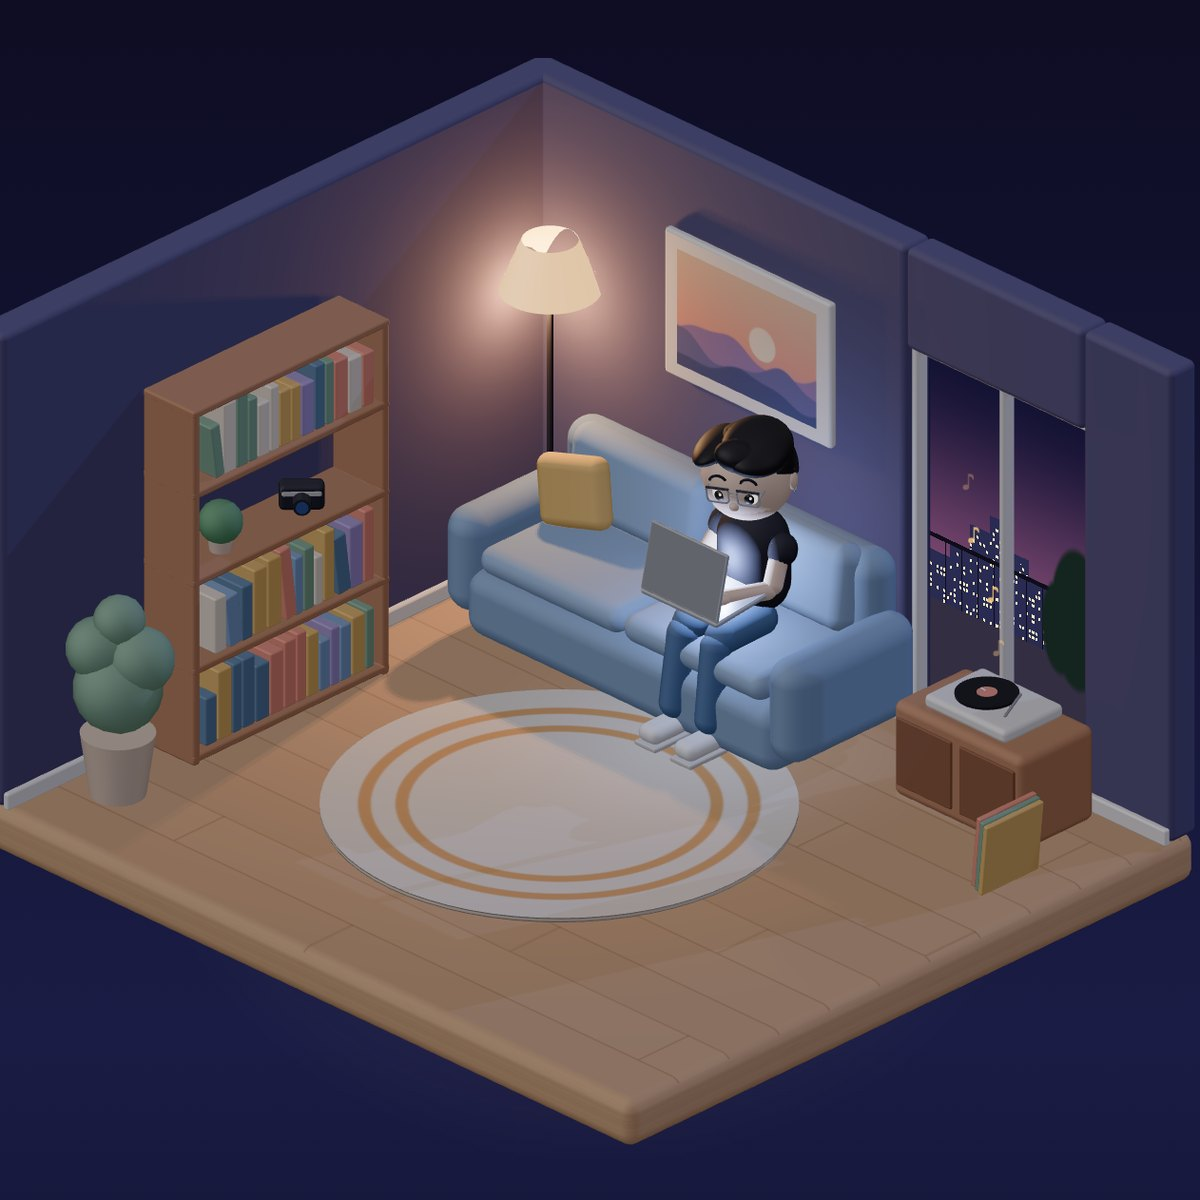
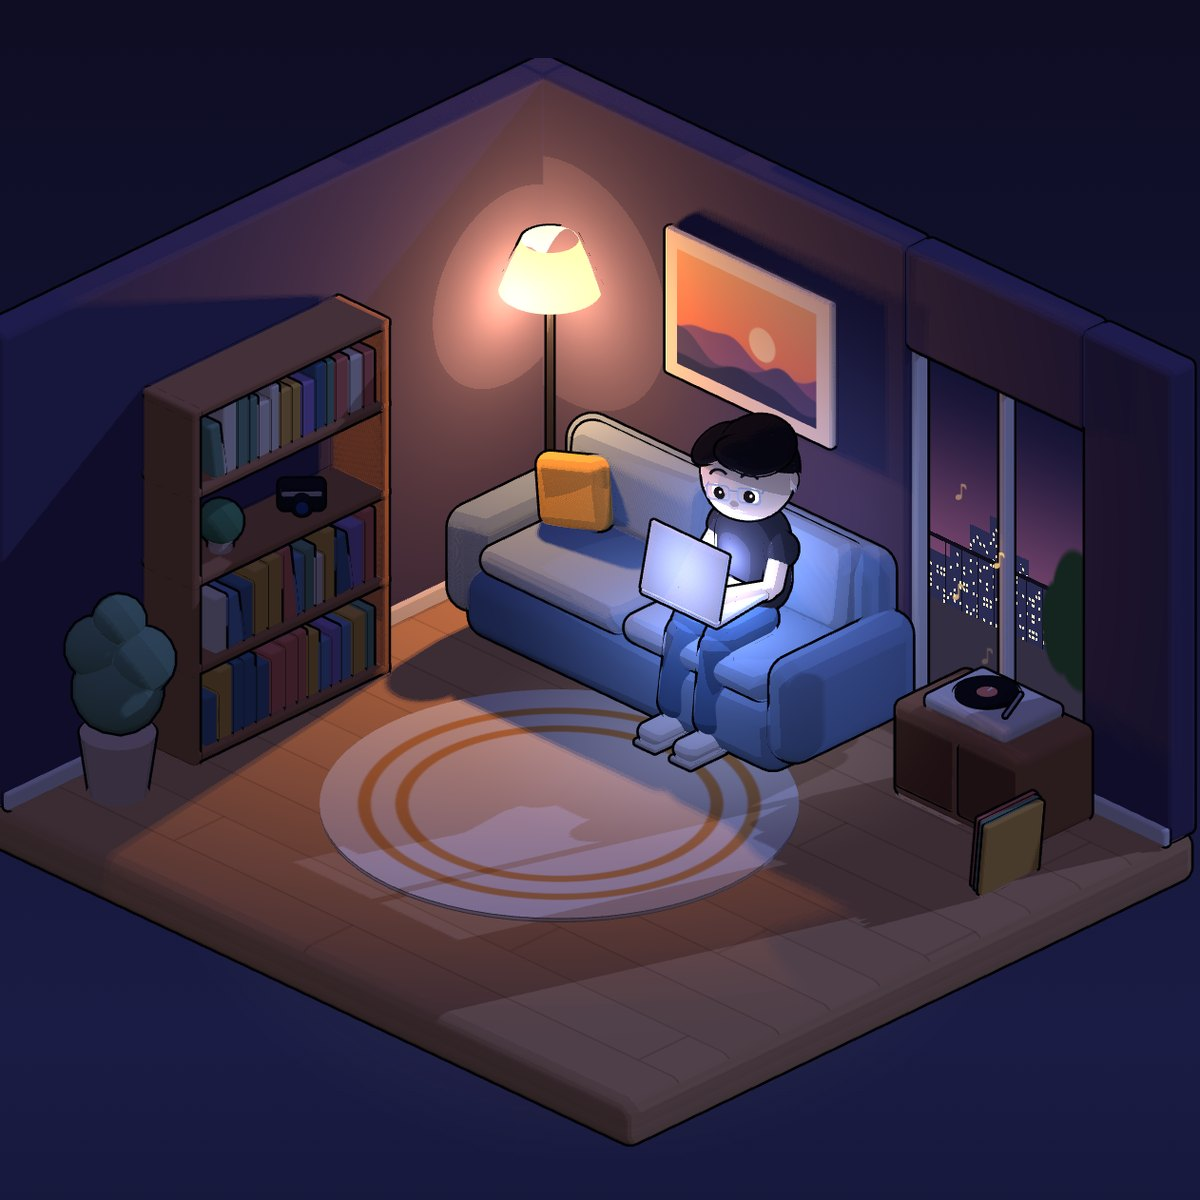
The room goes back to cel shading, crisper than the first pass
The clay render read soft. Three hard bands of light, hard shadows and a
thin plum ink line keep the new room, its sunlit floor and Ivan's
Memoji face; the glasses lose their top bar, which read as a frown.

Claude-Session: https://claude.ai/code/session_01FH67SwyQXea5kehW28VuDA

diff --git a/public/scene.js b/public/scene.js
@@ -1,9 +1,8 @@
-// Ivan's room in golden hour, a soft-clay diorama built from primitives: sun
+// Ivan's room in golden hour, a cel-shaded diorama built from primitives: sun
 // through the balcony door, a turntable going, a bookshelf with a camera, a
 // print above the sofa. Night swaps the sun for the lamp, the laptop and the city.
 import * as THREE from "three";
 import { RoundedBoxGeometry } from "three/addons/geometries/RoundedBoxGeometry.js";
-import { RoomEnvironment } from "three/addons/environments/RoomEnvironment.js";
 
 const canvas = document.getElementById("scene");
 const still = matchMedia("(prefers-reduced-motion: reduce)");
@@ -20,13 +19,10 @@ if (renderer) build(renderer);
 function build(renderer) {
   renderer.setPixelRatio(Math.min(devicePixelRatio || 1, 2));
   renderer.outputColorSpace = THREE.SRGBColorSpace;
-  renderer.toneMapping = THREE.AgXToneMapping;
   renderer.shadowMap.enabled = true;
-  renderer.shadowMap.type = THREE.PCFSoftShadowMap;
+  renderer.shadowMap.type = THREE.PCFShadowMap;
 
   const scene = new THREE.Scene();
-  const pmrem = new THREE.PMREMGenerator(renderer);
-  scene.environment = pmrem.fromScene(new RoomEnvironment(), 0.04).texture;
 
   // An isometric view: orthographic, so the room reads like a model on a desk.
   const camera = new THREE.OrthographicCamera(-1, 1, 1, -1, 0.1, 100);
@@ -37,7 +33,19 @@ function build(renderer) {
   const room = new THREE.Group();
   scene.add(room);
 
-  const clay = (color, roughness = 0.82) => new THREE.MeshStandardMaterial({ color, roughness, metalness: 0 });
+  // Cel shading: three crisp bands of light, and ink round every solid shape.
+  const bands = new THREE.DataTexture(new Uint8Array([90, 168, 255]), 3, 1, THREE.RedFormat);
+  bands.minFilter = bands.magFilter = THREE.NearestFilter;
+  bands.needsUpdate = true;
+  const toonMat = ({ roughness, metalness, ...rest } = {}) => new THREE.MeshToonMaterial({ gradientMap: bands, ...rest });
+  const clay = (color) => toonMat({ color });
+  const INK = 0.013;
+  const ink = new THREE.ShaderMaterial({
+    uniforms: { color: { value: new THREE.Color("#2a2236") } },
+    vertexShader: `void main() { gl_Position = projectionMatrix * modelViewMatrix * vec4(position + normal * ${INK.toFixed(4)}, 1.0); }`,
+    fragmentShader: `uniform vec3 color; void main() { gl_FragColor = vec4(color, 1.0); }`,
+    side: THREE.BackSide,
+  });
   const box = (w, h, d, r = 0.05) => new RoundedBoxGeometry(w, h, d, 4, Math.min(r, w / 2 - 0.001, h / 2 - 0.001, d / 2 - 0.001));
   const cyl = (rt, rb, h, s = 40) => new THREE.CylinderGeometry(rt, rb, h, s);
   function put(geometry, material, at, parent = room, { cast = true, receive = true } = {}) {
@@ -45,6 +53,7 @@ function build(renderer) {
     m.position.set(...at);
     m.castShadow = cast;
     m.receiveShadow = receive;
+    if (cast) m.add(new THREE.Mesh(geometry, ink));
     parent.add(m);
     return m;
   }
@@ -80,7 +89,7 @@ function build(renderer) {
 
   // Room: floor slab, side wall, and a back wall framed round the balcony door.
   const W = 4.8, D = 4.2, H = 2.8, T = 0.2;
-  const floorMat = new THREE.MeshStandardMaterial({ map: planks, roughness: 0.7 });
+  const floorMat = toonMat({ map: planks, roughness: 0.7 });
   put(box(W, 0.28, D, 0.08), floorMat, [0, -0.14, 0]);
   const wallMat = clay(C.wall, 0.95);
   const backZ = -D / 2 + T / 2, sideX = -W / 2 + T / 2;
@@ -146,7 +155,7 @@ function build(renderer) {
     t.colorSpace = THREE.SRGBColorSpace;
     return t;
   })();
-  put(cyl(1.25, 1.25, 0.025, 64), new THREE.MeshStandardMaterial({ map: rugTex, roughness: 1 }), [-0.15, 0.013, 0.05], room, { cast: false });
+  put(cyl(1.25, 1.25, 0.025, 64), toonMat({ map: rugTex, roughness: 1 }), [-0.15, 0.013, 0.05], room, { cast: false });
   const sofa = clay(C.sofa), cushion = clay(C.cushion);
   put(box(2.3, 0.4, 0.95, 0.12), sofa, [-0.6, 0.28, -1.3]);
   put(box(2.3, 0.62, 0.26, 0.13), sofa, [-0.6, 0.78, -1.68]);
@@ -196,7 +205,7 @@ function build(renderer) {
   laptop.position.set(0, 0.28, 0.33);
   laptop.rotation.set(0.1, Math.PI, 0);
   me.add(laptop);
-  const alu = new THREE.MeshStandardMaterial({ color: C.metal, roughness: 0.35, metalness: 0.6 });
+  const alu = toonMat({ color: C.metal, roughness: 0.35, metalness: 0.6 });
   put(box(0.56, 0.03, 0.38, 0.015), alu, [0, 0, 0], laptop);
   const lid = new THREE.Group();
   lid.position.set(0, 0.015, -0.18);
@@ -231,21 +240,20 @@ function build(renderer) {
   for (const s of [-1, 1]) put(new THREE.SphereGeometry(0.07, 16, 12), hair, [s * 0.215, 0.08, -0.06], head).scale.set(0.35, 0.85, 1.05);
   // Eyes with a light in them and thin arched brows; the Memoji's smile reads from the eyes.
   const white = new THREE.MeshBasicMaterial({ color: "#fdfcf9" });
-  const iris = new THREE.MeshStandardMaterial({ color: "#241c19", roughness: 0.25 });
+  const iris = toonMat({ color: "#241c19", roughness: 0.25 });
   const spark = new THREE.MeshBasicMaterial({ color: "#ffffff" });
   const browMat = clay("#231d20", 0.6);
   for (const s of [-1, 1]) {
     const x = s * 0.085;
-    put(new THREE.SphereGeometry(0.045, 20, 16), white, [x, 0.0, 0.2], head, { cast: false }).scale.set(0.95, 1.05, 0.5);
-    put(new THREE.SphereGeometry(0.03, 20, 16), iris, [x - s * 0.004, -0.004, 0.217], head, { cast: false }).scale.set(1, 1.08, 0.55);
+    put(new THREE.SphereGeometry(0.05, 20, 16), white, [x, 0.0, 0.2], head, { cast: false }).scale.set(0.95, 1.08, 0.5);
+    put(new THREE.SphereGeometry(0.034, 20, 16), iris, [x - s * 0.004, -0.002, 0.219], head, { cast: false }).scale.set(1, 1.08, 0.55);
     put(new THREE.SphereGeometry(0.009, 8, 6), spark, [x + 0.012, 0.012, 0.234], head, { cast: false });
-    const brow = put(new THREE.TorusGeometry(0.05, 0.008, 6, 16, Math.PI * 0.7), browMat, [x, 0.065, 0.215], head, { cast: false });
+    const brow = put(new THREE.TorusGeometry(0.05, 0.008, 6, 16, Math.PI * 0.7), browMat, [x, 0.082, 0.21], head, { cast: false });
     brow.rotation.z = Math.PI * 0.15 + (s > 0 ? 0 : 0.1);
   }
   put(new THREE.SphereGeometry(0.026, 12, 10), skin, [0, -0.055, 0.235], head, { cast: false });
-  // His glasses: thin rims under a darker top bar.
-  const rimMat = new THREE.MeshStandardMaterial({ color: "#c9ccd6", roughness: 0.3, metalness: 0.7 });
-  const barMat = clay("#3b3a45", 0.5);
+  // His glasses: thin silver rims.
+  const rimMat = toonMat({ color: "#c9ccd6", roughness: 0.3, metalness: 0.7 });
   const ring = (() => {
     const s = new THREE.Shape(), w = 0.13, h = 0.095, r = 0.03;
     s.moveTo(-w / 2 + r, -h / 2); s.lineTo(w / 2 - r, -h / 2); s.quadraticCurveTo(w / 2, -h / 2, w / 2, -h / 2 + r);
@@ -260,7 +268,6 @@ function build(renderer) {
   })();
   for (const s of [-1, 1]) {
     put(ring, rimMat, [s * 0.085, 0.008, 0.232], head, { cast: false });
-    put(box(0.13, 0.014, 0.012, 0.006), barMat, [s * 0.085, 0.052, 0.238], head, { cast: false });
     put(box(0.008, 0.008, 0.2, 0.003), rimMat, [s * 0.155, 0.03, 0.13], head, { cast: false });
     const hoop = put(new THREE.TorusGeometry(0.016, 0.004, 8, 20), rimMat, [s * 0.252, -0.055, -0.01], head, { cast: false });
     hoop.rotation.y = Math.PI / 2;
@@ -286,7 +293,7 @@ function build(renderer) {
     return tex;
   })();
   put(box(1.22, 0.86, 0.05, 0.02), clay("#f8f3ea", 0.6), [-0.65, 1.86, backZ + T / 2 + 0.03]);
-  put(new THREE.PlaneGeometry(1.02, 0.68), new THREE.MeshStandardMaterial({ map: print, roughness: 0.9 }), [-0.65, 1.86, backZ + T / 2 + 0.058], room, { cast: false });
+  put(new THREE.PlaneGeometry(1.02, 0.68), toonMat({ map: print, roughness: 0.9 }), [-0.65, 1.86, backZ + T / 2 + 0.058], room, { cast: false });
 
   // The turntable on a low cabinet by the door, records leaning beside it.
   put(box(0.95, 0.56, 0.55, 0.05), clay(C.wood), [1.45, 0.28, -1.55]);
@@ -295,7 +302,7 @@ function build(renderer) {
   const platter = new THREE.Group();
   platter.position.set(1.4, 0.655, -1.55);
   room.add(platter);
-  put(cyl(0.17, 0.17, 0.015, 48), new THREE.MeshStandardMaterial({ color: C.record, roughness: 0.3 }), [0, 0, 0], platter);
+  put(cyl(0.17, 0.17, 0.015, 48), toonMat({ color: C.record, roughness: 0.3 }), [0, 0, 0], platter);
   put(cyl(0.055, 0.055, 0.018, 32), clay(C.coral), [0, 0.001, 0], platter);
   put(box(0.04, 0.006, 0.01, 0.002), clay("#fff"), [0.03, 0.011, 0], platter, { cast: false });
   put(box(0.015, 0.015, 0.26, 0.006), rimMat, [1.62, 0.68, -1.52]).rotation.y = 0.45;
@@ -342,14 +349,14 @@ function build(renderer) {
   put(box(0.24, 0.15, 0.11, 0.03), clay(C.ink, 0.5), [0, 0, 0], cam);
   put(box(0.22, 0.05, 0.115, 0.02), clay("#cfcbc2", 0.5), [0, 0.03, 0], cam);
   put(cyl(0.048, 0.05, 0.08), clay(C.ink, 0.4), [0, -0.01, 0.09], cam).rotation.x = Math.PI / 2;
-  put(cyl(0.032, 0.032, 0.012), new THREE.MeshStandardMaterial({ color: "#3d5a9a", roughness: 0.05, metalness: 0.3 }), [0, -0.01, 0.135], cam, { cast: false }).rotation.x = Math.PI / 2;
+  put(cyl(0.032, 0.032, 0.012), toonMat({ color: "#3d5a9a", roughness: 0.05, metalness: 0.3 }), [0, -0.01, 0.135], cam, { cast: false }).rotation.x = Math.PI / 2;
   put(new THREE.IcosahedronGeometry(0.12, 2), clay(C.leaf), [0.04, 1.27, 0.38], shelf);
   put(cyl(0.075, 0.06, 0.13), clay(C.pot), [0.04, 1.17, 0.38], shelf);
 
   // The floor lamp, warm at night.
   put(cyl(0.15, 0.17, 0.04), clay(C.ink, 0.5), [-2.0, 0.02, -1.75]);
   put(cyl(0.018, 0.018, 1.7, 12), clay(C.ink, 0.5), [-2.0, 0.87, -1.75]);
-  const shadeMat = new THREE.MeshStandardMaterial({ color: "#f7e6c6", roughness: 0.9, side: THREE.DoubleSide, emissive: new THREE.Color("#ffb560"), emissiveIntensity: 0 });
+  const shadeMat = toonMat({ color: "#f7e6c6", roughness: 0.9, side: THREE.DoubleSide, emissive: new THREE.Color("#ffb560"), emissiveIntensity: 0 });
   put(new THREE.CylinderGeometry(0.15, 0.27, 0.3, 40, 1, true), shadeMat, [-2.0, 1.82, -1.75]);
   const lamp = new THREE.PointLight("#ffb56b", 0, 5.5, 1.5);
   lamp.position.set(-2.0, 1.65, -1.65);
@@ -383,7 +390,6 @@ function build(renderer) {
   sun.castShadow = true;
   sun.shadow.mapSize.set(2048, 2048);
   Object.assign(sun.shadow.camera, { left: -5, right: 5, top: 5, bottom: -5, near: 0.5, far: 20 });
-  sun.shadow.radius = 4;
   sun.shadow.bias = -0.0005;
   sun.shadow.normalBias = 0.02;
   scene.add(sun);
@@ -395,18 +401,17 @@ function build(renderer) {
     const night = dark.matches;
     wallMat.color.set(night ? C.wallNight : C.wall);
     viewMat.uniforms.night.value = night ? 1 : 0;
-    hemi.intensity = night ? 0.22 : 0.9;
+    hemi.intensity = night ? 0.5 : 1.25;
     hemi.color.set(night ? "#8e8cff" : "#fff3e3");
     hemi.groundColor.set(night ? "#3a2f48" : "#d2aa82");
-    sun.intensity = night ? 0.5 : 3.2;
+    sun.intensity = night ? 0.6 : 2.4;
     sun.color.set(night ? "#8fa2ff" : "#ffd6a0");
     fill.intensity = night ? 0.12 : 0.5;
-    lamp.intensity = night ? 4.5 : 0;
+    lamp.intensity = night ? 5 : 0;
     shadeMat.emissiveIntensity = night ? 1.4 : 0;
     screenGlow.intensity = night ? 1.2 : 0.2;
-    scene.environmentIntensity = night ? 0.15 : 0.45;
     dust.visible = !night;
-    renderer.toneMappingExposure = night ? 1.15 : 1.12;
+    ink.uniforms.color.value.set(night ? "#17142a" : "#2a2236");
   }
   applyTheme();
 
@@ -441,7 +446,7 @@ function build(renderer) {
       room.rotation.y = look * 0.1;
       room.rotation.x = lookY * 0.03;
       torso.scale.y = 1 + Math.sin(t * 1.6) * 0.015;
-      head.rotation.set(0.14 + Math.sin(t * 0.7) * 0.025, 0.3 + Math.sin(t * 0.31) * 0.14, Math.sin(t * 0.5) * 0.03);
+      head.rotation.set(0.05 + Math.sin(t * 0.7) * 0.025, 0.3 + Math.sin(t * 0.31) * 0.14, Math.sin(t * 0.5) * 0.03);
       forearms.forEach((f, i) => { f.rotation.x = Math.sin(t * 11 + i * 1.7) * 0.05 * (0.5 + 0.5 * Math.sin(t * 0.8)); });
       platter.rotation.y = -t * 3.49;
       for (const n of notes) {
@@ -457,7 +462,7 @@ function build(renderer) {
       dust.geometry.attributes.position.needsUpdate = true;
     } else {
       room.rotation.set(0, 0, 0);
-      head.rotation.set(0.14, 0.3, 0);
+      head.rotation.set(0.05, 0.3, 0);
       for (const n of notes) n.s.material.opacity = 0;
     }
     renderer.render(scene, camera);
